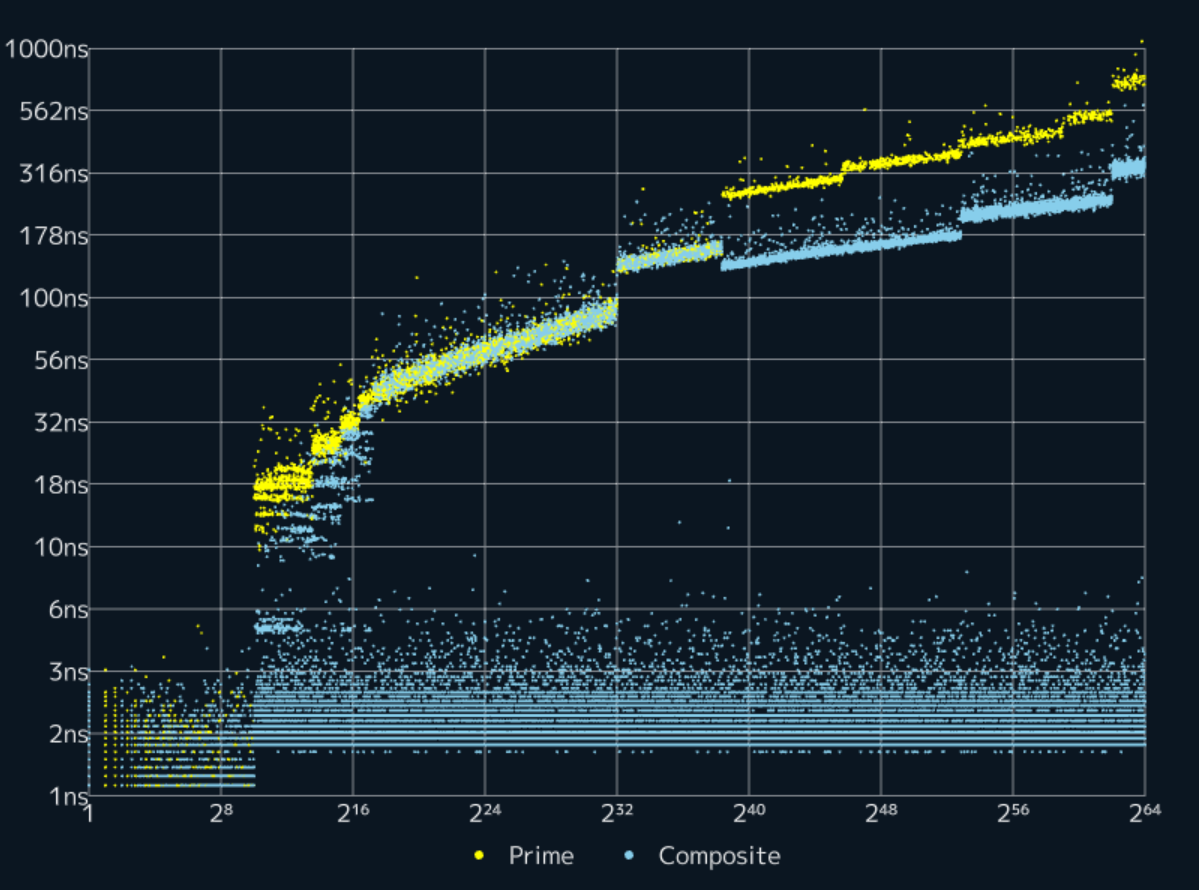
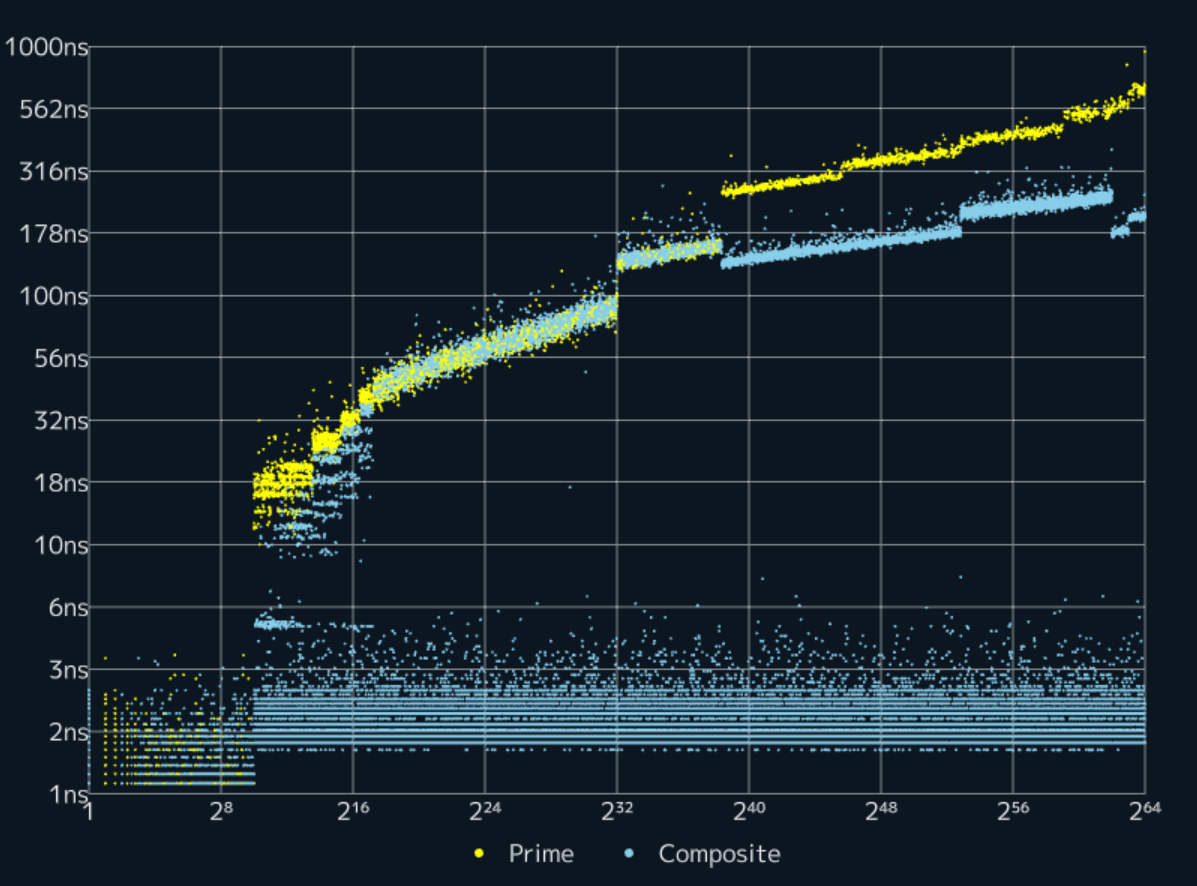
Add Baillie-PSW

diff --git a/libcpprime/IsPrimeNoTable.hpp b/libcpprime/IsPrimeNoTable.hpp
@@ -37,8 +37,49 @@ namespace internal {
         return (FlagTable10[n / 32] >> (n % 32)) & 1;
     }
 
-    template<bool Strict> LIBCPPRIME_CONSTEXPR bool IsPrime64NoTable(const std::uint64_t x) noexcept {
-        MontgomeryModint64Impl<Strict> mint;
+    LIBCPPRIME_CONSTEXPR std::uint64_t GetLucasBase(const std::uint64_t x) noexcept {
+        std::uint32_t tmp = x % 5;
+        if (tmp == 2 || tmp == 3) return 5;
+        tmp = x % 13;
+        if (tmp == 2 || tmp == 5 || tmp == 6 || tmp == 7 || tmp == 8 || tmp == 11) return 13;
+        tmp = x % 17;
+        if (tmp == 3 || tmp == 5 || tmp == 6 || tmp == 7 || tmp == 10 || tmp == 11 || tmp == 12 || tmp == 14) return 17;
+        tmp = x % 21;
+        if (tmp == 2 || tmp == 8 || tmp == 10 || tmp == 11 || tmp == 13 || tmp == 19) return 21;
+        tmp = x % 29;
+        if (tmp == 0) return 0;
+        if (tmp == 2 || tmp == 3 || tmp == 8 || tmp == 10 || tmp == 11 || tmp == 12 || tmp == 14 || tmp == 15 || tmp == 17 || tmp == 18 || tmp == 19 || tmp == 21 || tmp == 26 || tmp == 27) return 29;
+        if (0x02030213u >> (x & 31) & 1) {
+            std::int32_t k = 32 - (CountlZero(x - 1) >> 1);
+            std::uint64_t s = 1ull << k, t = (s + (x >> k)) >> 1;
+            while (t < s) {
+                s = t;
+                t = (s + x / s) >> 1;
+            }
+            if (s * s == x) return 0;
+        }
+        std::uint64_t Z = 33;
+        while (Z < x) {
+            std::uint64_t a = Z, n = x;
+            bool res = false;
+            while (a != 0) {
+                std::int32_t s = CountrZero(a);
+                a >>= s;
+                res ^= ((s & 1) && ((n & 0b111) == 3 || (n & 0b111) == 5));
+                res ^= ((a & 0b11) == 3 && (n & 0b11) == 3);
+                std::uint64_t tmp = n;
+                n = a;
+                a = tmp % n;
+            }
+            if (n == 1 && res) break;
+            Z += 4;
+        }
+        if (Z >= x) return 1;
+        return Z;
+    }
+
+    LIBCPPRIME_CONSTEXPR bool IsPrime64MillerRabin(const std::uint64_t x) noexcept {
+        MontgomeryModint64Impl<0> mint;
         mint.set(x);
         const std::int32_t S = CountrZero(x - 1);
         const std::uint64_t D = (x - 1) >> S;
@@ -122,6 +163,63 @@ namespace internal {
         } else return test3(2ull, 325ull, 9375ull) && test4(28178ull, 450775ull, 9780504ull, 1795265022ull);
     }
 
+    template<std::int32_t Strict> LIBCPPRIME_CONSTEXPR bool IsPrime64BailliePSW(const std::uint64_t x) noexcept {
+        MontgomeryModint64Impl<Strict> mint;
+        mint.set(x);
+        const std::int32_t S = CountrZero(x - 1);
+        const std::uint64_t D = (x - 1) >> S;
+        const auto one = mint.one(), mone = mint.neg(one);
+        auto miller_rabin_test = [&]() -> bool {
+            auto a = one, b = mint.raw(2);
+            std::uint64_t ex = D;
+            while (ex != 1) {
+                auto c = mint.mul(b, b);
+                if (ex & 1) a = mint.mul(a, b);
+                b = c;
+                ex >>= 1;
+            }
+            a = mint.mul(a, b);
+            bool flag = mint.same(a, one) || mint.same(a, mone);
+            if (x % 4 == 3) return flag;
+            if (flag) return true;
+            for (std::int32_t i = 0; i != S - 1; ++i) {
+                a = mint.mul(a, a);
+                if (mint.same(a, mone)) return true;
+            }
+            return false;
+        };
+        if (!miller_rabin_test()) return false;
+        std::uint64_t Z = GetLucasBase(x);
+        if (Z <= 1) return Z == 1;
+        const std::uint64_t Q = mint.raw(x - (Z - 1) / 4);
+        std::uint64_t u = one, v = one, Qn = Q;
+        std::uint64_t k = (x + 1) << CountlZero(x + 1);
+        Z = mint.raw(Z);
+        std::uint64_t t = (x >> 1) + 1;
+        for (k <<= 1; k; k <<= 1) {
+            u = mint.mul(u, v);
+            v = mint.sub(mint.mul(v, v), mint.add(Qn, Qn));
+            Qn = mint.mul(Qn, Qn);
+            if (k >> 63) {
+                std::uint64_t uu = mint.add(u, v);
+                uu = (uu >> 1) + ((uu & 1) ? t : 0);
+                v = mint.add(mint.mul(Z, u), v);
+                v = (v >> 1) + ((v & 1) ? t : 0);
+                u = uu;
+                Qn = mint.mul(Qn, Q);
+            }
+        }
+        if (mint.is_zero(u) || mint.is_zero(v)) return true;
+        std::uint64_t f = (x + 1) & ~x;
+        for (f >>= 1; f; f >>= 1) {
+            u = mint.mul(u, v);
+            v = mint.sub(mint.mul(v, v), mint.add(Qn, Qn));
+            if (mint.is_zero(v)) return true;
+            Qn = mint.mul(Qn, Qn);
+        }
+        return false;
+    }
+
 }  // namespace internal
 
 LIBCPPRIME_CONSTEXPR bool IsPrimeNoTable(std::uint64_t n) noexcept {
@@ -129,8 +227,9 @@ LIBCPPRIME_CONSTEXPR bool IsPrimeNoTable(std::uint64_t n) noexcept {
     else {
         if ((n & 1) == 0 || 6148914691236517205u >= 12297829382473034411u * n || 3689348814741910323u >= 14757395258967641293u * n || 2635249153387078802u >= 7905747460161236407u * n || 1676976733973595601u >= 3353953467947191203u * n || 1418980313362273201u >= 5675921253449092805u * n || 1085102592571150095u >= 17361641481138401521u * n) return false;
         if (n <= 0xffffffff) return internal::IsPrime32(n);
-        else if (n < (std::uint64_t(1) << 62)) return internal::IsPrime64NoTable<false>(n);
-        else return internal::IsPrime64NoTable<true>(n);
+        else if (n < (std::uint64_t(1) << 62)) return internal::IsPrime64MillerRabin(n);
+        else if (n < (std::uint64_t(1) << 63)) return internal::IsPrime64BailliePSW<1>(n);
+        else return internal::IsPrime64BailliePSW<2>(n);
     }
 }
 

diff --git a/libcpprime/internal/IsPrimeCommon.hpp b/libcpprime/internal/IsPrimeCommon.hpp
@@ -55,7 +55,7 @@
 #ifdef _MSC_VER
 #include <intrin.h>
 #include <immintrin.h>
-#pragma intrinsic(__assume, _tzcnt_u64, _umul128, __umulh)
+#pragma intrinsic(_tzcnt_u64, _lzcnt_u64, _umul128, __umulh)
 #if _MSC_VER >= 1900
 #pragma intrinsic(_udiv128)
 #endif
@@ -111,6 +111,33 @@ namespace internal {
         return x & 0x0000007f;
 #endif
     }
+#if !defined(__cpp_lib_bitops) && !defined(__GNUC__) && !defined(_MSC_VER)
+    LIBCPPRIME_CONSTEXPR const char CountlZeroTable[32] = { 0, 31, 9, 30, 3, 8, 13, 29, 2, 5, 7, 21, 12, 24, 28, 19, 1, 10, 4, 14, 6, 22, 25, 20, 11, 15, 23, 26, 16, 27, 17, 18 };
+#endif
+    LIBCPPRIME_CONSTEXPR std::int32_t CountlZero(std::uint64_t n) noexcept {
+#ifdef __cpp_lib_bitops
+        Assume(n != 0);
+        return std::countl_zero(n);
+#elif defined(__GNUC__)
+        return __builtin_clzll(n);
+#elif defined(_MSC_VER)
+        return _lzcnt_u64(n);
+#else
+        std::int32_t offset = 0;
+        std::uint32_t x = n >> 32;
+        if (n <= 0xffffffff) {
+            offset = 32;
+            x = n;
+        }
+        x |= x >> 1;
+        x |= x >> 2;
+        x |= x >> 4;
+        x |= x >> 8;
+        x |= x >> 16;
+        x++;
+        return offset + CountlZeroTable[(x * 0x076be629u) >> 27];
+#endif
+    }
     LIBCPPRIME_CONSTEXPR Int64Pair Mulu128(std::uint64_t muler, std::uint64_t mulnd) noexcept {
 #if defined(__SIZEOF_INT128__)
         __uint128_t tmp = static_cast<__uint128_t>(muler) * mulnd;
@@ -141,8 +168,7 @@ namespace internal {
         return { (muler * mulnd) + w1 + k, (t << 32) + w3 };
 #endif
     }
-    LIBCPPRIME_CONSTEXPR
-    std::uint64_t Mulu128High(std::uint64_t muler, std::uint64_t mulnd) noexcept {
+    LIBCPPRIME_CONSTEXPR std::uint64_t Mulu128High(std::uint64_t muler, std::uint64_t mulnd) noexcept {
 #if defined(__SIZEOF_INT128__)
         return static_cast<std::uint64_t>((static_cast<__uint128_t>(muler) * mulnd) >> 64);
 #else
@@ -214,11 +240,14 @@ namespace internal {
         return x << l;
     }
 
-    template<bool Strict = false> class MontgomeryModint64Impl {
+    template<std::int32_t Strict = 0> class MontgomeryModint64Impl {
         std::uint64_t mod_ = 0, rs = 0, nr = 0, np = 0;
         LIBCPPRIME_CONSTEXPR std::uint64_t reduce(const std::uint64_t n) const noexcept {
             std::uint64_t q = n * nr;
-            if LIBCPPRIME_IF_CONSTEXPR (Strict) {
+            if LIBCPPRIME_IF_CONSTEXPR (Strict == 1) {
+                std::uint64_t m = Mulu128High(q, mod_);
+                return m <= mod_ ? mod_ - m : 0 - m;
+            } else if LIBCPPRIME_IF_CONSTEXPR (Strict == 2) {
                 auto m = Mulu128(q, mod_);
                 std::uint64_t t = m.high + std::uint64_t(m.low + n < m.low);
                 return t - mod_ * (t >= mod_);
@@ -231,7 +260,11 @@ namespace internal {
             auto tmp = Mulu128(a, b);
             std::uint64_t d = tmp.high, c = tmp.low;
             std::uint64_t q = c * nr;
-            if LIBCPPRIME_IF_CONSTEXPR (Strict) {
+            if LIBCPPRIME_IF_CONSTEXPR (Strict == 1) {
+                std::uint64_t m = Mulu128High(q, mod_);
+                std::uint64_t t = d - m;
+                return t >= mod_ ? t + mod_ : t;
+            } else if LIBCPPRIME_IF_CONSTEXPR (Strict == 2) {
                 auto m = Mulu128(q, mod_);
                 std::uint64_t t = m.high + std::uint64_t(m.low + c < m.low);
                 if (t >= mod_ - d) return t + d - mod_;
@@ -250,7 +283,7 @@ namespace internal {
             rs = Divu128(0xffffffffffffffff % n, 0 - n, n).low;
             nr = n;
             for (std::uint32_t i = 0; i != 5; ++i) nr *= 2 - n * nr;
-            if LIBCPPRIME_IF_CONSTEXPR (Strict) nr = 0 - nr;
+            if LIBCPPRIME_IF_CONSTEXPR (Strict == 2) nr = 0 - nr;
             np = reduce(rs);
         }
         LIBCPPRIME_CONSTEXPR std::uint64_t build(std::uint32_t x) const noexcept { return reduce(x % mod_, rs); }
@@ -294,6 +327,33 @@ namespace internal {
                 Assume(x < 2 * mod_ && y < 2 * mod_);
                 std::uint64_t tmp = x - y;
                 return (tmp == 0) || (tmp == mod_) || (tmp == 0 - mod_);
+            }
+        }
+        LIBCPPRIME_CONSTEXPR bool is_zero(std::uint64_t x) const noexcept {
+            if LIBCPPRIME_IF_CONSTEXPR (Strict) {
+                Assume(x < mod_);
+                return x == 0;
+            } else {
+                Assume(x < 2 * mod_);
+                return x == 0 || x == mod_;
+            }
+        }
+        LIBCPPRIME_CONSTEXPR std::uint64_t add(std::uint64_t x, std::uint64_t y) const noexcept {
+            if LIBCPPRIME_IF_CONSTEXPR (Strict) {
+                Assume(x < mod_ && y < mod_);
+                return x + y - (x >= mod_ - y) * mod_;
+            } else {
+                Assume(x < 2 * mod_ && y < 2 * mod_);
+                return x + y - (x >= 2 * mod_ - y) * (2 * mod_);
+            }
+        }
+        LIBCPPRIME_CONSTEXPR std::uint64_t sub(std::uint64_t x, std::uint64_t y) const noexcept {
+            if LIBCPPRIME_IF_CONSTEXPR (Strict) {
+                Assume(x < mod_ && y < mod_);
+                return x - y + (x < y) * mod_;
+            } else {
+                Assume(x < 2 * mod_ && y < 2 * mod_);
+                return x - y + (x < y) * (2 * mod_);
             }
         }
     };

diff --git a/libcpprime/IsPrime.hpp b/libcpprime/IsPrime.hpp
@@ -237,7 +237,7 @@ namespace internal {
 206,119,3406,6754,309,3909,646,3677,3514,8797,1435,301,9215,3730,7282,165,3381,303,6369,2627,115,761,3695,1233,1297,1803,1130,122,511,58,6426,1389,1433,9102,943,2795,13162,9905,899,9740,8719,517,5115,4977,1486,8259,7163,13549,7561,305,119,973,7698,5619,5326,5772,32611,8846,1709,4641,782,2503,3905,4051,4923,165,16132,16827,1913,6590,322,741,522,7666,1655,5087,468,8541,1169,4455,22993,2801,6623,446,1979,10923,3503,32053,523,5721,9608,955,11766,49919,1982,66,3347,9508,439,145,5697,1026,1569
     };
     // clang-format on
-    template<bool Strict> LIBCPPRIME_CONSTEXPR bool IsPrime64(const std::uint64_t x) noexcept {
+    template<std::int32_t Strict> LIBCPPRIME_CONSTEXPR bool IsPrime64(const std::uint64_t x) noexcept {
         MontgomeryModint64Impl<Strict> mint;
         mint.set(x);
         const std::int32_t S = CountrZero(x - 1);
@@ -304,8 +304,8 @@ LIBCPPRIME_CONSTEXPR bool IsPrime(std::uint64_t n) noexcept {
     else {
         if ((n & 1) == 0 || 6148914691236517205u >= 12297829382473034411u * n || 3689348814741910323u >= 14757395258967641293u * n || 2635249153387078802u >= 7905747460161236407u * n || 1676976733973595601u >= 3353953467947191203u * n || 1418980313362273201u >= 5675921253449092805u * n || 1085102592571150095u >= 17361641481138401521u * n) return false;
         if (n <= 0xffffffff) return internal::IsPrime32(n);
-        else if (n < (std::uint64_t(1) << 62)) return internal::IsPrime64<false>(n);
-        else return internal::IsPrime64<true>(n);
+        else if (n < (std::uint64_t(1) << 63)) return internal::IsPrime64<1>(n);
+        else return internal::IsPrime64<2>(n);
     }
 }
 

diff --git a/README.md b/README.md
@@ -78,6 +78,8 @@ g++ -I ./libcpprime -O3 Main.cpp
 
 # Releases
 
+- 2024/12/30 ver 1.2.6
+  - Improve performance
 - 2024/12/29 ver 1.2.5
   - Add copyrights notice
 - 2024/12/28 ver 1.2.4
